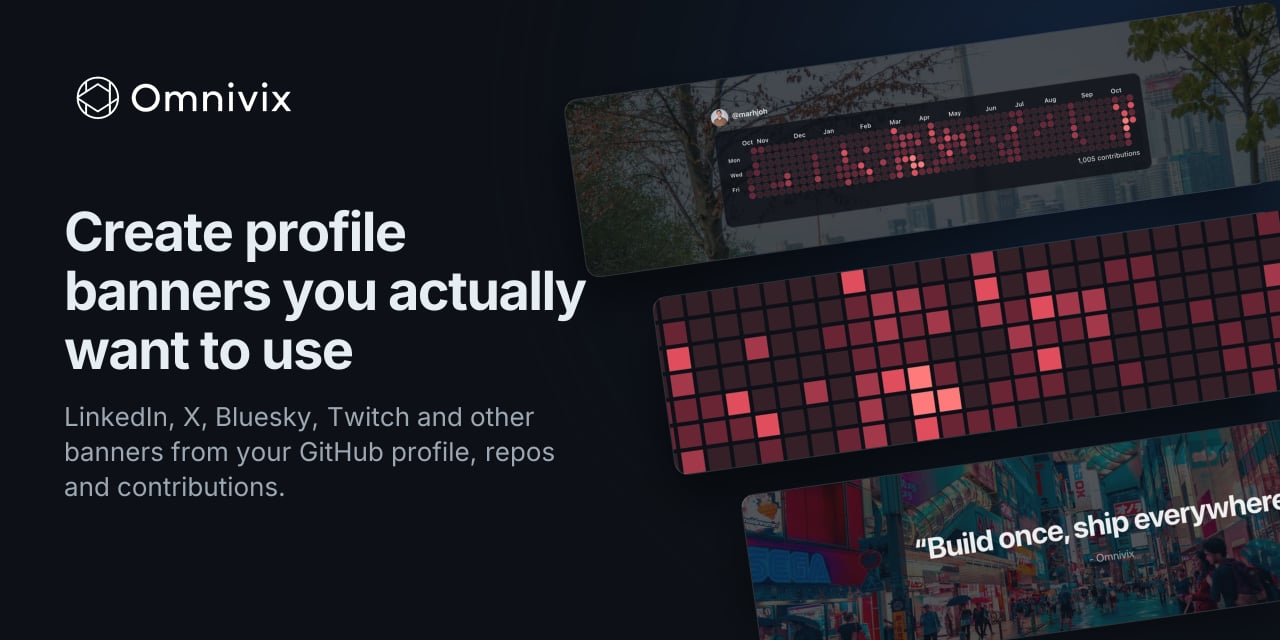
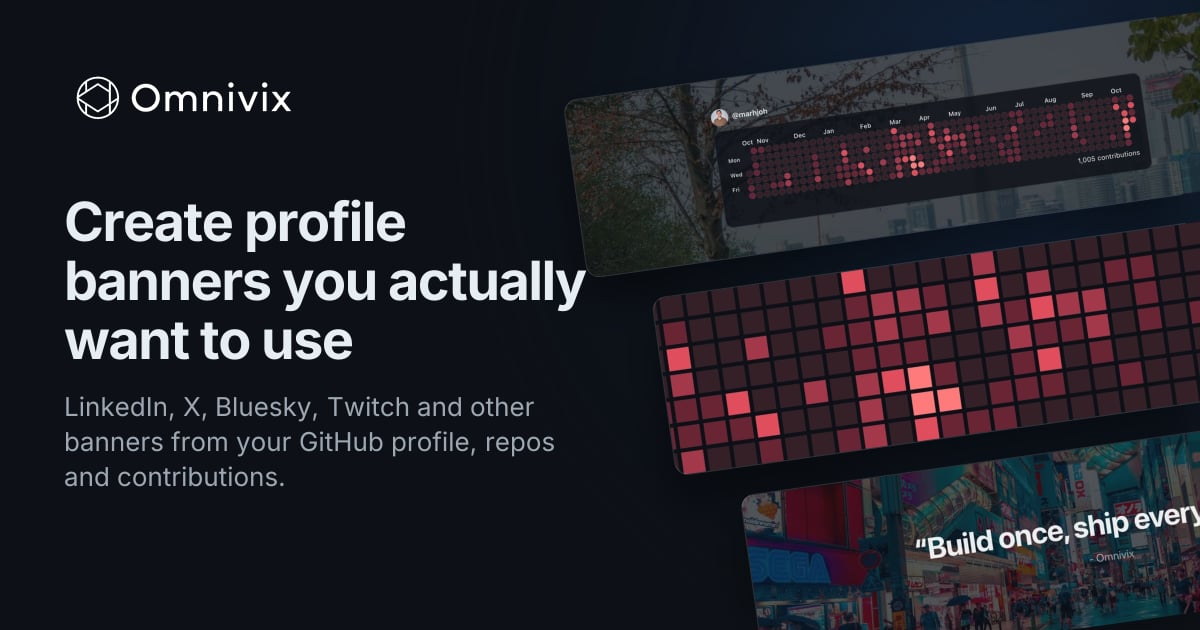
fix: render the repo social preview at the site's Open Graph size

diff --git a/src/og/ogImage.tsx b/src/og/ogImage.tsx
@@ -12,8 +12,6 @@ import { templateRegistry } from "@/src/templates/registry";
 // of public/landing/*.webp. Regenerate them when the landing banners change.
 
 export const OG_SIZE = { width: 1200, height: 630 };
-// GitHub's recommended repository social preview size (Settings → General → Social preview).
-export const GITHUB_SOCIAL_PREVIEW_SIZE = { width: 1280, height: 640 };
 export const OG_CONTENT_TYPE = "image/jpeg";
 
 const COLORS = {
@@ -85,10 +83,11 @@ const bannerStyle = {
 } as const;
 
 /**
- * Site-wide preview: logo, tagline and a tilted stack of template banners. Also used,
- * at GITHUB_SOCIAL_PREVIEW_SIZE, for the repository's social preview (scripts/social-preview.mts).
+ * Site-wide preview: logo, tagline and a tilted stack of template banners. Also the repository's
+ * social preview (scripts/social-preview.mts), at the same size: GitHub recommends 1280×640, but
+ * Slack crops previews to 16:9 and a 2:1 image loses more than its text margin.
  */
-export async function renderSiteOgImage(size: { width: number; height: number } = OG_SIZE) {
+export async function renderSiteOgImage() {
   const { fonts, logo } = await assets;
   const bannerIds = ["github-banner", "contribution-banner", "quote-banner"] as const;
   const banners = await Promise.all(bannerIds.map(bannerSrc));
@@ -139,7 +138,7 @@ export async function renderSiteOgImage(size: { width: number; height: number } 
           </div>
         </div>
       </div>,
-      { ...size, fonts },
+      { ...OG_SIZE, fonts },
     ),
   );
 }
